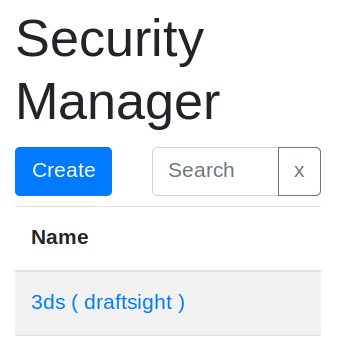
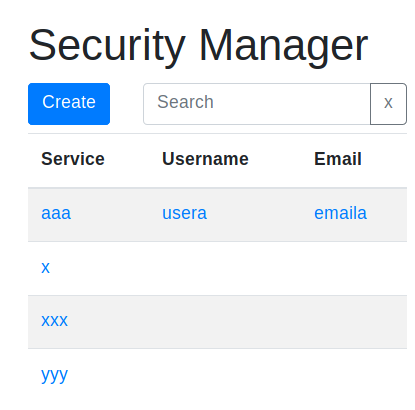
fixed cred list load ; added edit credential service, username, email autocompletion

diff --git a/SecurityManagerClient/app.js b/SecurityManagerClient/app.js
@@ -14,6 +14,9 @@ let credorig = null;
 // caches loaded data
 let credshortlistdata = null;
 
+// caches aliases
+let aliases = null;
+
 // control page navigation state
 let state = '';
 
@@ -75,10 +78,30 @@ function reloadCredShortList(filter = '') {
         });
 }
 
+//--------------
+// LOAD ALIASES
+//--------------
+function reloadAliases() {
+    $.post(urlbase + '/Api/Aliases',
+        {
+            password: pwd,
+            pin: pin
+        },
+        function (data, status, jqXHR) {
+            if (checkApiError(data)) return;
+            if (checkApiSuccessful(data)) {
+                aliases = data.aliases;
+            }
+            else {
+                $.notify('invalid login', 'error');
+                pin = '';
+            }
+        });
+}
+
 //------------------
 // CRED LIST FILTER 
 //------------------
-
 function doFilter() {
     if (filterTimer != null) clearTimeout(filterTimer);
 
@@ -154,6 +177,21 @@ function openCred(e) {
                 $('#cred-email-box')[0].value = data.cred.email;
                 $('#cred-pass-box')[0].value = data.cred.password;
                 $('#cred-notes-box')[0].value = data.cred.notes;
+                
+                new Awesomplete($('#cred-name-box')[0], {
+                    minChars: 1,
+                    list: _.map(_.filter(aliases, (x) => x.name != null), (x) => x.name)
+                });
+
+                new Awesomplete($('#cred-username-box')[0], {
+                    minChars: 1,
+                    list: _.map(_.filter(aliases, (x) => x.username != null), (x) => x.username)
+                });
+
+                new Awesomplete($('#cred-email-box')[0], {
+                    minChars: 1,
+                    list: _.map(_.filter(aliases, (x) => x.email != null), (x) => x.email)
+                });
 
                 credorig = JSON.stringify(buildCredObj());
 
@@ -172,8 +210,7 @@ function openCred(e) {
 // SAVE CRED EDIT
 //----------------
 $('.js-cred-save-btn').click(function (e) {
-    if (isEmptyCredObj())
-    {
+    if (isEmptyCredObj()) {
         $.notify('cannot save empty', 'warning');
         return;
     }
@@ -254,8 +291,10 @@ $.post(
         if (checkApiError(data)) return;
         if (checkApiInvalidAuth(data))
             gotoState('login');
-        else
+        else {
+            reloadAliases();
             reloadCredShortList();
+        }
     }
 );
 

diff --git a/SecurityManagerClient/index.html b/SecurityManagerClient/index.html
@@ -15,6 +15,9 @@
   <!-- Font-Awesome -->
   <link rel="stylesheet" href="bower_components/Font-Awesome/web-fonts-with-css/css/fontawesome-all.min.css">
 
+  <!-- https://leaverou.github.io/awesomplete/ -->
+  <link rel="stylesheet" href="bower_components/awesomplete/awesomplete.css">
+
   <!-- Site css -->
   <link rel="stylesheet" href="site.css">
 
@@ -240,6 +243,9 @@
 
   <!-- https://github.com/zenorocha/clipboard.js -->
   <script src="bower_components/clipboard/dist/clipboard.js"></script>
+
+  <!-- https://leaverou.github.io/awesomplete/ -->
+  <script src="bower_components/awesomplete/awesomplete.min.js"></script>
 
   <!-- https://github.com/devel0/js-util -->
   <script src="js-util.js"></script>

diff --git a/SecurityManagerWebapi/Types/Config.cs b/SecurityManagerWebapi/Types/Config.cs
@@ -27,11 +27,11 @@ namespace SecurityManagerWebapi
                 if (string.IsNullOrEmpty(cred.GUID))
                 {
                     cred.GUID = Guid.NewGuid().ToString();
-                    
+
                     // trim spaces
                     cred.Name = cred.Name?.Trim();
                     cred.Email = cred.Email?.Trim();
-                    cred.Password = cred.Password?.Trim();                    
+                    cred.Password = cred.Password?.Trim();
 
                     Credentials.Add(cred);
                 }
@@ -71,7 +71,7 @@ namespace SecurityManagerWebapi
                 nfo = Credentials.FirstOrDefault(w => w.GUID == guid);
                 if (nfo != null) Credentials.Remove(nfo);
             }
-        }        
+        }
 
         public List<CredShort> GetCredShortList(string filter)
         {
@@ -82,7 +82,21 @@ namespace SecurityManagerWebapi
             lock (lck)
             {
                 res = Credentials.Where(r => new[] { r.Name, r.Url, r.Username, r.Email, r.Notes }.MatchesFilter(filter))
-                .Select(w => new CredShort() { GUID = w.GUID, Name = w.Name, Username = w.Url, Email = w.Email, Url = w.Url })
+                .Select(w => new CredShort() { GUID = w.GUID, Name = w.Name, Username = w.Username, Email = w.Email, Url = w.Url })
+                .ToList();
+            }
+
+            return res;
+        }
+
+        public List<Alias> GetAliases()
+        {
+            List<Alias> res;
+
+            lock (lck)
+            {
+                res = Credentials
+                .Select(w => new Alias() { Name = w.Name, Username = w.Username, Email = w.Email }).Distinct()
                 .ToList();
             }
 

diff --git a/SecurityManagerWebapi/Controllers/ApiController.cs b/SecurityManagerWebapi/Controllers/ApiController.cs
@@ -153,6 +153,25 @@ namespace SecurityManagerWebapi.Controllers
         }
 
         [HttpPost]
+        public CommonResponse Aliases(string password, int pin)
+        {
+            try
+            {
+                if (!CheckAuth(password, pin)) return InvalidAuthResponse();
+
+                var response = new AliasResponse();
+
+                response.Aliases = config.GetAliases();
+
+                return response;
+            }
+            catch (Exception ex)
+            {
+                return ErrorResponse(ex.Message);
+            }
+        }
+
+        [HttpPost]
         public CommonResponse IsAuthValid(string password, int pin)
         {
             try
@@ -164,7 +183,7 @@ namespace SecurityManagerWebapi.Controllers
             {
                 return ErrorResponse(ex.Message);
             }
-        }
+        }        
 
     }
 }

diff --git a/SecurityManagerWebapi/Types/Alias.cs b/SecurityManagerWebapi/Types/Alias.cs
@@ -1,0 +1,13 @@
+namespace SecurityManagerWebapi
+{
+
+    public class Alias
+    {
+
+        public string Name { get; set; }
+        public string Username { get; set; }
+        public string Email { get; set; }        
+
+    }
+
+}

diff --git a/SecurityManagerWebapi/Types/AliasResponse.cs b/SecurityManagerWebapi/Types/AliasResponse.cs
@@ -1,0 +1,13 @@
+using System.Collections.Generic;
+
+namespace SecurityManagerWebapi
+{
+
+    public class AliasResponse : CommonResponse
+    {
+
+        public List<Alias> Aliases { get; set; }
+
+    }
+
+}
